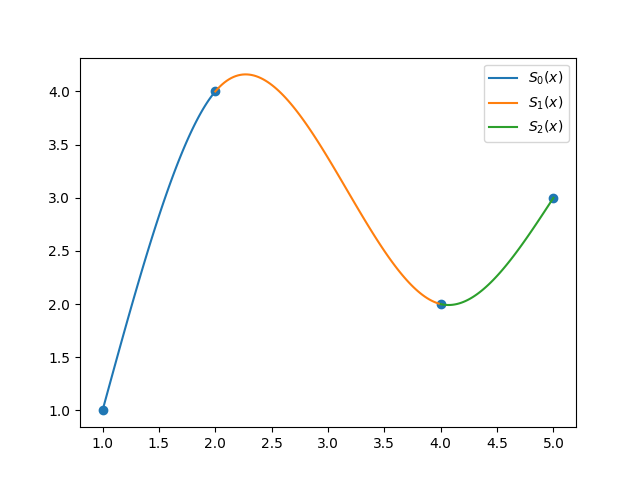
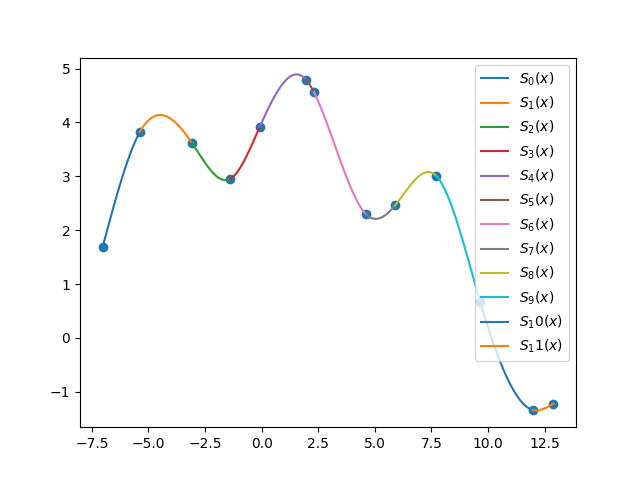
Questões Spline | Trabalho 2

diff --git a/src/spline.py b/src/spline.py
@@ -1,5 +1,6 @@
 import numpy as np
 import matplotlib.pyplot as plt
+import math
 
 def spline(x, y):
     """
@@ -35,25 +36,43 @@ def spline(x, y):
 
     s = {}
     for k in range(n - 1):
+        #print(f'a{k} = {a[k]} | b{k} = {b[k]} | c{k} = {c[k]} | d{k} = {d[k]}')
         eq = f'{a[k]}{b[k]:+}*(x{-x[k]:+}){c[k]:+}*(x{-x[k]:+})**2{d[k]:+}*(x{-x[k]:+})**3'
         s[k] = {'eq': eq, 'domain': [x[k], x[k+1]]}
 
     return s
 
+def f(x):
+    return math.exp(-x ** 2) + math.cos(x) + 3
+
+
 if __name__ == '__main__':
 
-    x = [1, 2, 4, 5]
-    y = [1, 4, 2, 3]
+    pontos = [[-7.025, 1.679], [-5.383, 3.818], [-3.077, 3.62], [-1.387, 2.953], [-0.076, 3.924], [1.966, 4.794], [2.303, 4.567], [4.621, 2.292], [5.89, 2.46], [7.713, 3.007], [9.652, 0.669], [11.965, -1.338], [12.886, -1.221]]
+    x = [0] * len(pontos)
+    y = [0] * len(pontos)
+    for i in range(len(pontos)):
+        x[i] = pontos[i][0]
+        y[i] = pontos[i][1]
+
+    # x = [0.283, 0.834, 1.305, 1.893, 2.872, 3.162, 3.881, 4.439, 5.027, 5.264, 6.173, 6.953]
+    # y = [0] * len(x)
+    # for i in range(len(x)):
+    #     y[i] = f(x[i])
 
     eqs = spline(x, y)
-    print(eqs)
+
+    xn = [-4.719, -4.403, -1.99, -0.784, 11.161]
 
     for key, value in eqs.items():
         def p(x):
             return eval(value['eq'])
         t = np.linspace(*value['domain'], 100)
         plt.plot(t, p(t), label=f"$S_{key}(x)$")
-
+        for i in range(len(xn)):
+            if xn[i] > value['domain'][0] and xn[i] < value['domain'][1]:
+                #print(i, 'equaçao', ' | ponto:  ',  xn[i], '| domain', value['domain'])
+                print(p(xn[i]))
 
     plt.scatter(x, y)
     plt.legend()
